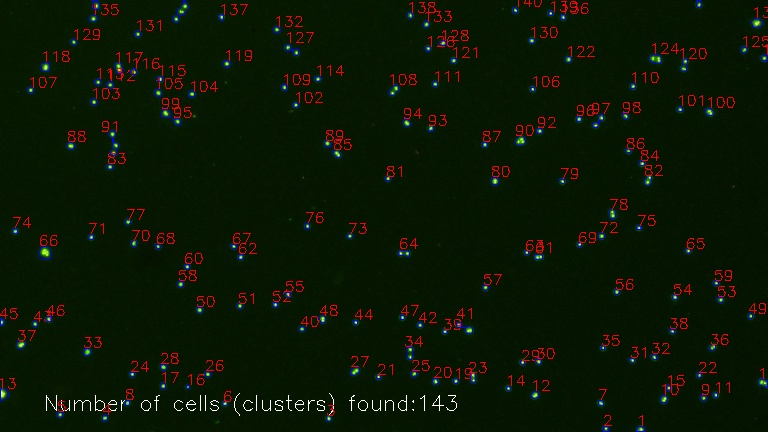
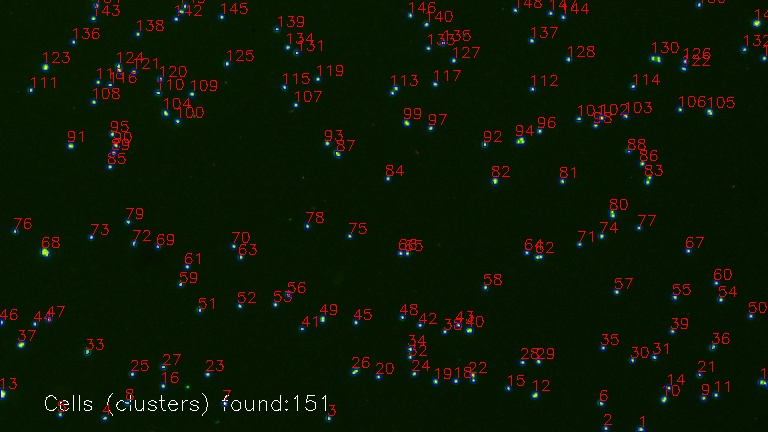
更换标准示例图像

diff --git a/modules/process.py b/modules/process.py
@@ -105,7 +105,7 @@ def detect(address):
         # 读取图片
         img = cv.imread(address)
         # 调整图像，防畸变
-        img = cv.resize(img, (0,0), fx=0.3, fy=0.3)
+        img = cv.resize(img, (0,0), fx=1, fy=1)
         # 将RGB模型转换为HSV模型
         hsv = cv.cvtColor(img, cv.COLOR_BGR2HSV)
         # 基于阈值生成二值图
@@ -171,4 +171,4 @@ def detect(address):
 
 if __name__ == "__main__":
     # 尝试检测一下
-    detect("./samples/img(10).png")
+    detect("./samples/origin.png")
